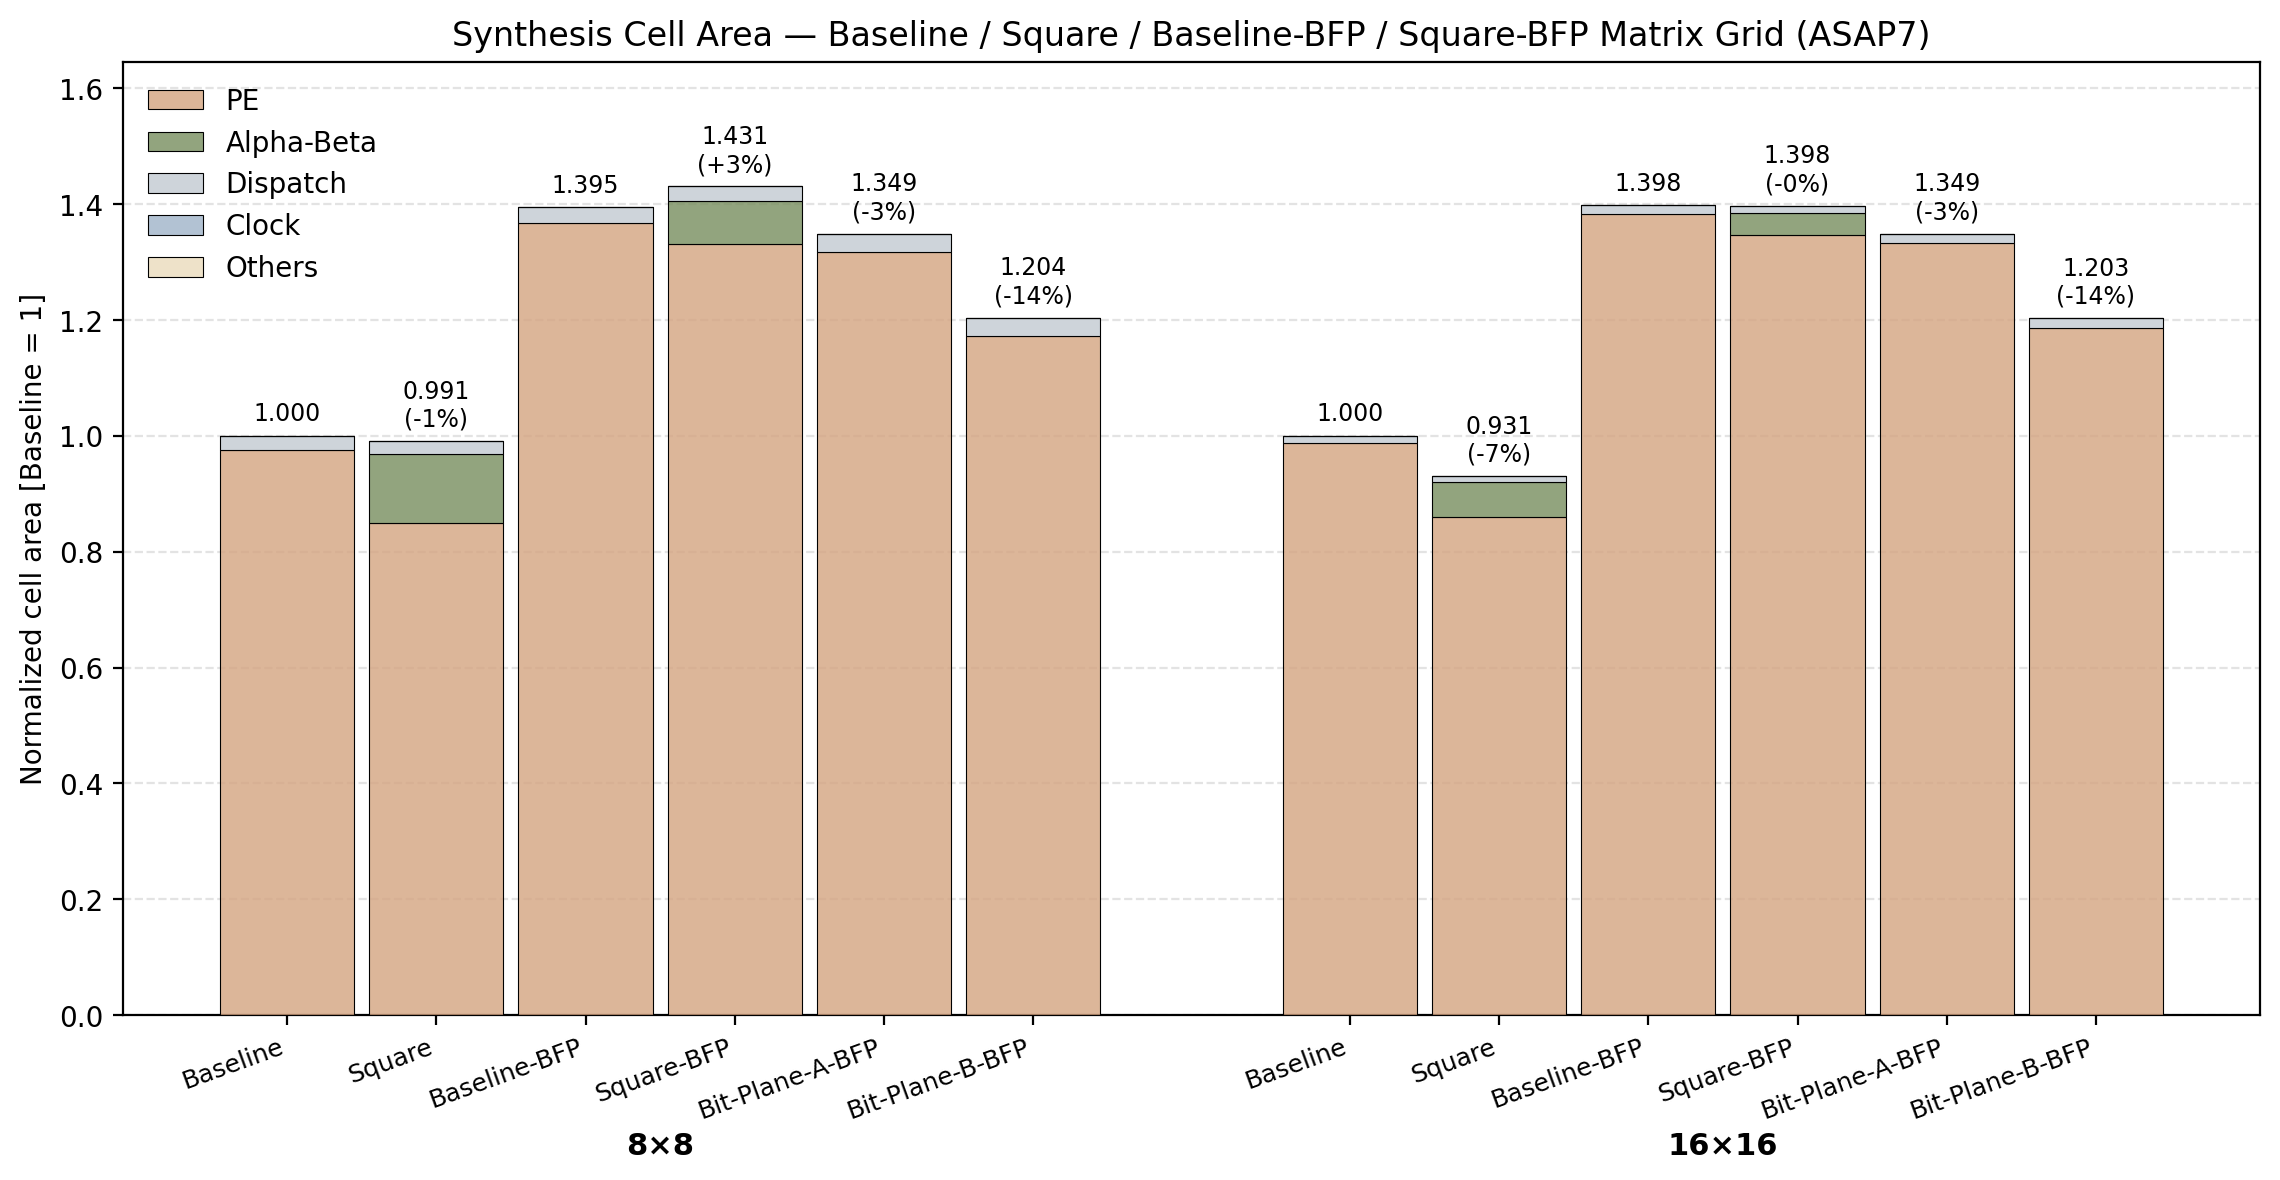
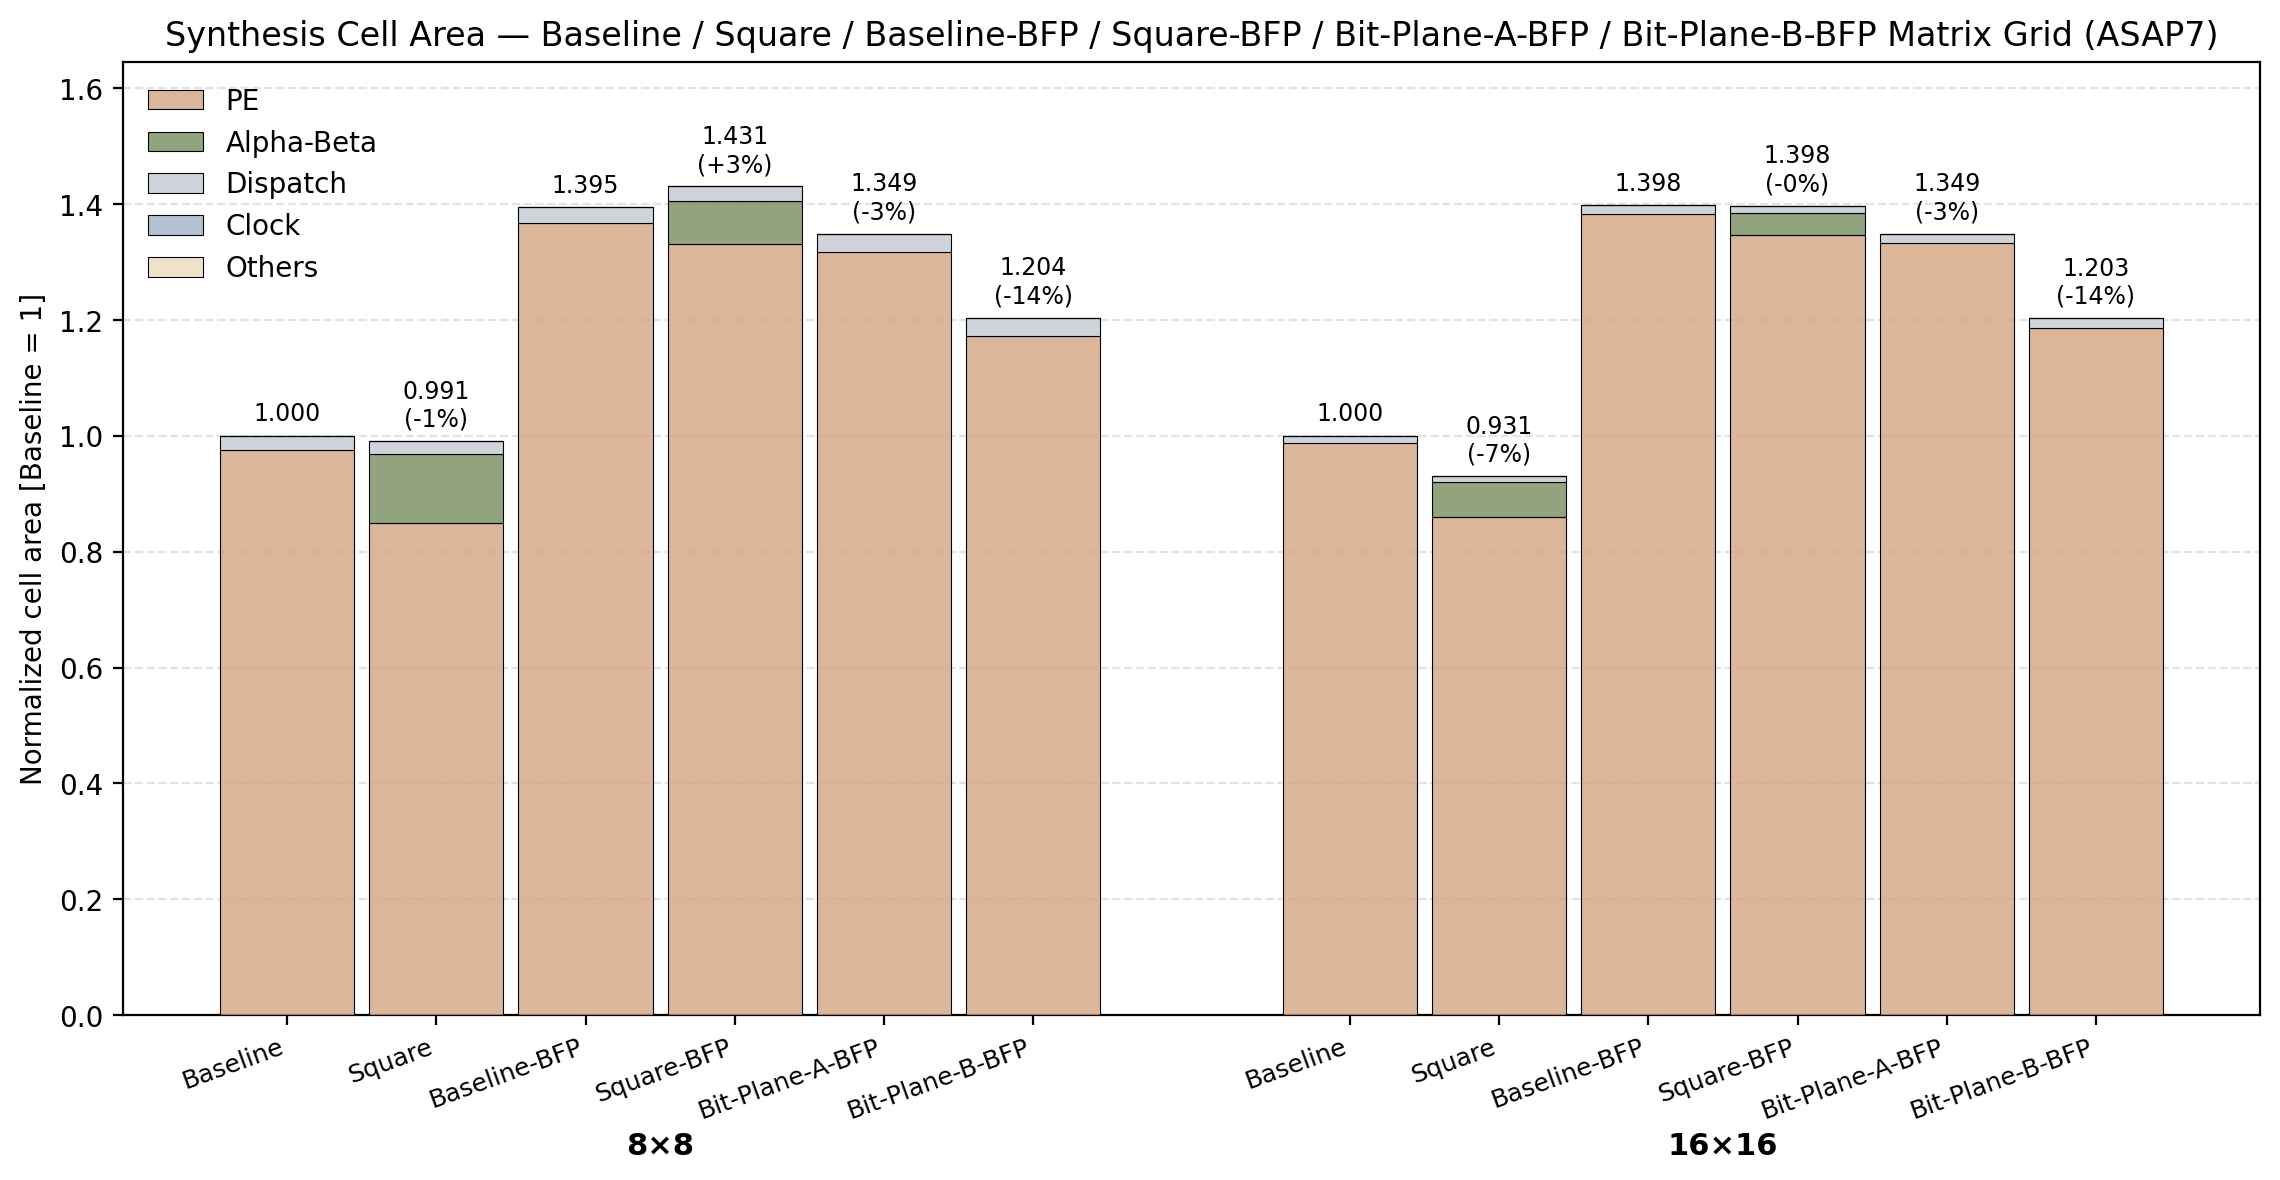
Fixed charts.

Changed region(s): [[0.0934, 0.0, 0.6539, 0.061], [0.6851, 0.0, 0.9654, 0.061]]

diff --git a/projects/ai-core/doc/charts/hist_syn_area.py b/projects/ai-core/doc/charts/hist_syn_area.py
@@ -166,7 +166,7 @@ for gi, sz in enumerate(SIZES):
             ha="center", va="top", fontsize=11, fontweight="bold")
 
 ax.set_ylabel("Normalized cell area [Baseline = 1]")
-ax.set_title("Synthesis Cell Area — Baseline / Square / Baseline-BFP / Square-BFP Matrix Grid (ASAP7)")
+ax.set_title(f"Synthesis Cell Area — {' / '.join(VARIANTS)} Matrix Grid (ASAP7)")
 ax.set_ylim(0, max(tot) * 1.15)
 ax.grid(axis="y", linestyle="--", alpha=0.35, zorder=0)
 

diff --git a/projects/ai-core/doc/charts/hist_syn_pwr.py b/projects/ai-core/doc/charts/hist_syn_pwr.py
@@ -144,7 +144,7 @@ for gi, sz in enumerate(SIZES):
             ha="center", va="top", fontsize=11, fontweight="bold")
 
 ax.set_ylabel("Normalized dynamic power [Baseline = 1]")
-ax.set_title("Dynamic Power — Baseline / Square / Baseline-BFP / Square-BFP Matrix Grid (ASAP7)")
+ax.set_title(f"Dynamic Power — {' / '.join(VARIANTS)} Matrix Grid (ASAP7)")
 ax.set_ylim(0, max(tot) * 1.15)
 ax.grid(axis="y", linestyle="--", alpha=0.35, zorder=0)
 
